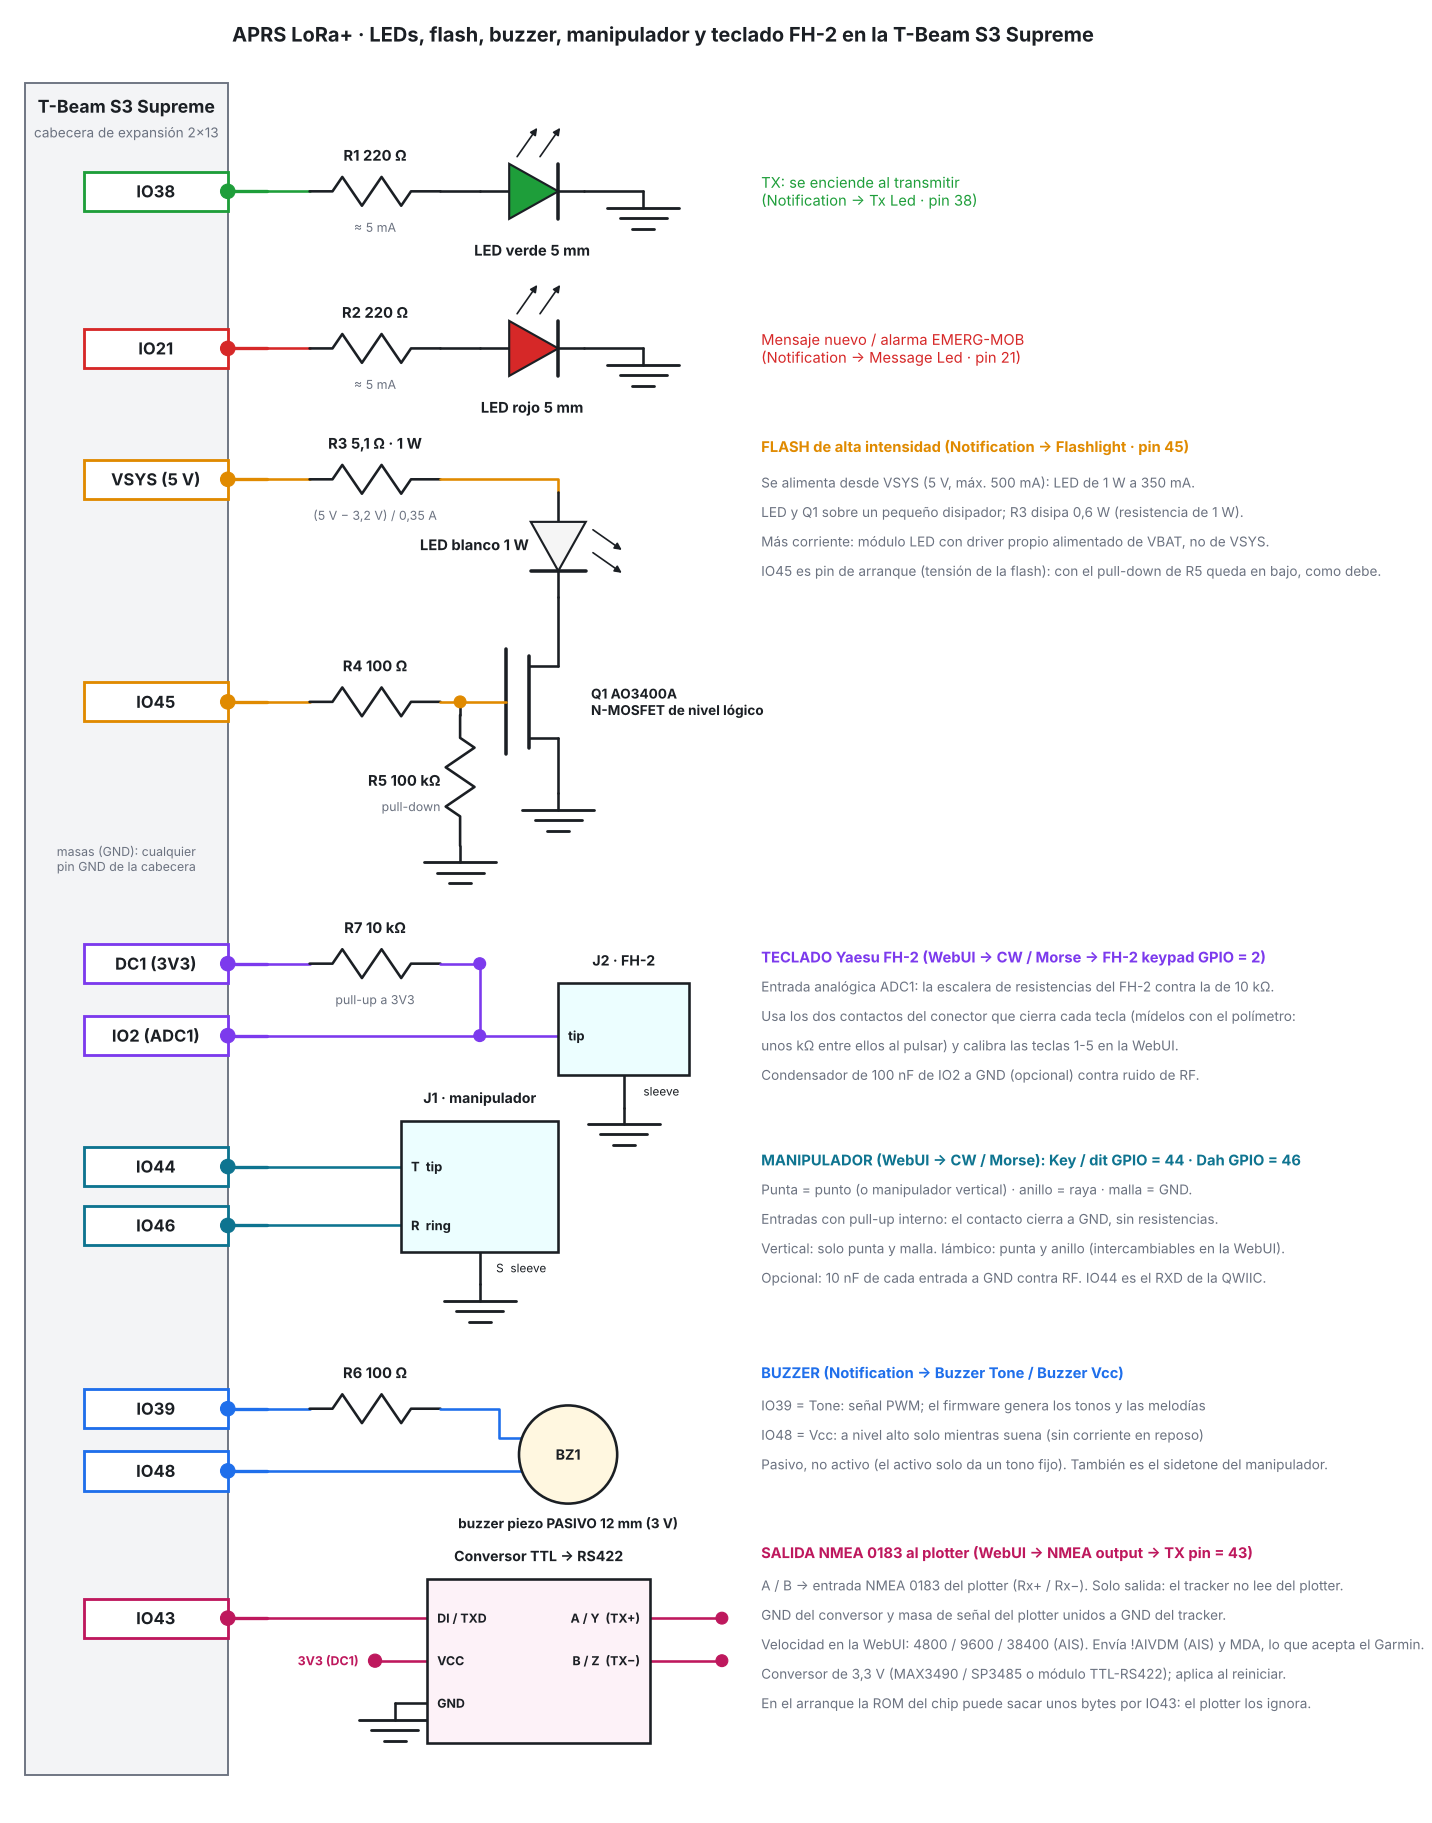
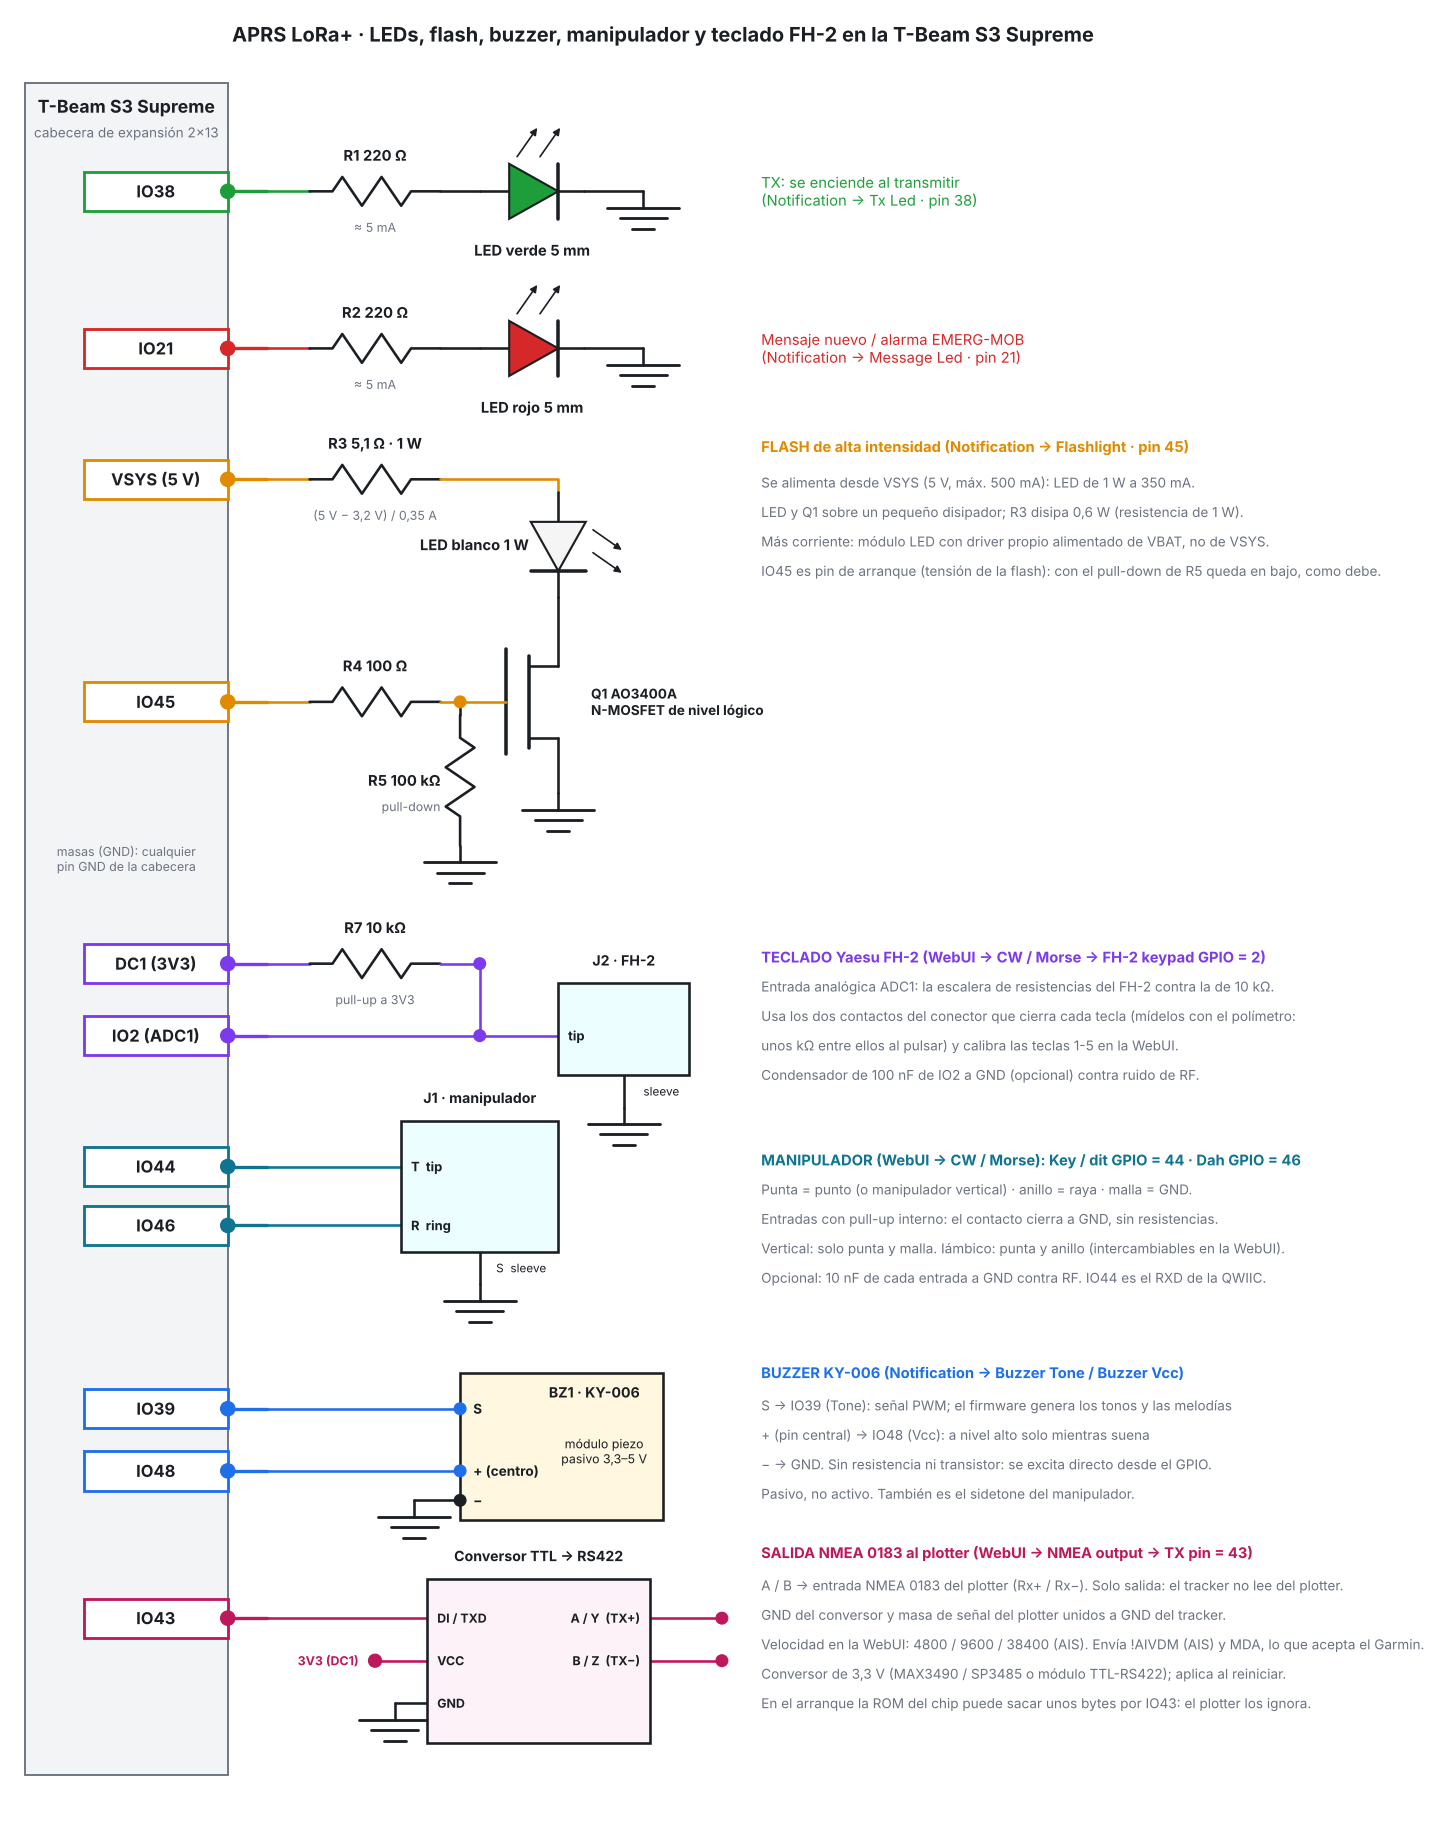
Supreme: buzzer KY-006 (S a IO39, + a IO48, - a GND) en esquema, vista previa y documentacion
Claude-Session: https://claude.ai/code/session_01GDhYBy3QviPrNDemu3ZHMt

Changed region(s): [[0.5223, 0.7372, 0.8603, 0.8294], [0.2765, 0.7372, 0.4916, 0.8601], [0.2458, 0.7372, 0.2765, 0.7987]]

diff --git a/docs/HARDWARE_SUPREME_EXTRAS.md b/docs/HARDWARE_SUPREME_EXTRAS.md
@@ -13,8 +13,8 @@ Copyright (C) 2026 Manuel - EA7JRS. Esquema y reparto de pines para añadir hard
 | LED verde (TX) | 38 | IO38 | Hardware → Notification → *Pin used for Tx Led* | 220 Ω en serie |
 | LED rojo (mensaje / alarma) | 21 | IO21 | *Pin used for Message Rx Led* | 220 Ω en serie |
 | Flash de alta intensidad | 45 | IO45 | *Pin used for Flashlight Pin* | MOSFET de nivel lógico; LED desde VSYS (5 V) |
-| Buzzer, tono | 39 | IO39 | *Buzzer Tone Pin* | piezo **pasivo**, 100 Ω en serie |
-| Buzzer, Vcc | 48 | IO48 | *Buzzer Vcc Pin* | a nivel alto solo mientras suena |
+| Buzzer, tono | 39 | IO39 | *Buzzer Tone Pin* | módulo **KY-006** (piezo pasivo), pin **S** |
+| Buzzer, Vcc | 48 | IO48 | *Buzzer Vcc Pin* | pin **+** (central) del KY-006; a nivel alto solo mientras suena |
 | Teclado Yaesu FH-2 | 2 | IO2 (ADC1) | Transmission mode → CW / Morse → *FH-2 keypad ADC GPIO* | 10 kΩ a 3V3 (pin DC1) |
 | Manipulador, punto / vertical (punta) | 44 | RXD (QWIIC) | *Key / dit GPIO* | contacto a GND, pull-up interno |
 | Manipulador, raya (anillo) | 46 | IO46 | *Dah GPIO* | contacto a GND, pull-up interno |
@@ -34,7 +34,7 @@ Sin usar: IO3 (pin de arranque), IO6 (PPS del GPS) y A-LDO2. Los defaults de fá
 
 - **LEDs:** 220 Ω da unos 5 mA a 3,3 V; para más brillo baja a 150 Ω (máx. 12 mA por GPIO).
 - **Flash:** LED blanco de 1 W (Vf ≈ 3,2 V, 350 mA) desde VSYS (5 V, máx. 500 mA) con R3 = 5,1 Ω / 1 W; Q1 = AO3400A (o IRLML6344), R4 = 100 Ω, R5 = 100 kΩ. LED y Q1 sobre un pequeño disipador. Para más corriente, módulo LED con driver propio alimentado de VBAT. Es una salida encendido / apagado.
-- **Buzzer:** **pasivo** (el firmware genera tonos y melodías; uno activo solo da un tono fijo). También es el sidetone del manipulador.
+- **Buzzer:** módulo **KY-006** (piezo **pasivo**, 3,3–5 V; el firmware genera tonos y melodías, uno activo solo da un tono fijo). Conexión: **S → IO39**, **+** (pin central) **→ IO48**, **−** → GND. Sin resistencia ni transistor: el módulo se excita directo desde el GPIO. Con IO48 el módulo solo recibe alimentación mientras suena; si tu módulo no tiene el pin central conectado, deja IO48 libre, no afecta. Antes de conectar, comprueba con el polímetro que el pin central y S no están unidos entre sí (según el fabricante el central va a + o está al aire). También es el sidetone del manipulador.
 - **FH-2:** conecta el teclado entre IO2 y GND con 10 kΩ de IO2 a 3V3 (DC1). Mide con el polímetro los dos contactos del conector que cierra cada tecla y calibra las teclas 1–5 en la WebUI (ver `CW_MORSE.md`). 100 nF de IO2 a GND ayuda contra RF.
 - **Manipulador:** jack de 3,5 mm: punta = punto (o manipulador vertical), anillo = raya, malla = GND. 10 nF de cada entrada a GND contra RF (opcional).
 - **NMEA:** IO43 → DI/TXD del conversor; VCC del conversor a 3V3 (DC1) si es de 3,3 V; GND común; A/B (o Y/Z) → entrada NMEA 0183 del plotter (Rx+ / Rx−) con la masa de señal unida. Solo salida. Se envían las sentencias que acepta el Garmin por NMEA 0183: `!AIVDM` y `MDA`.
